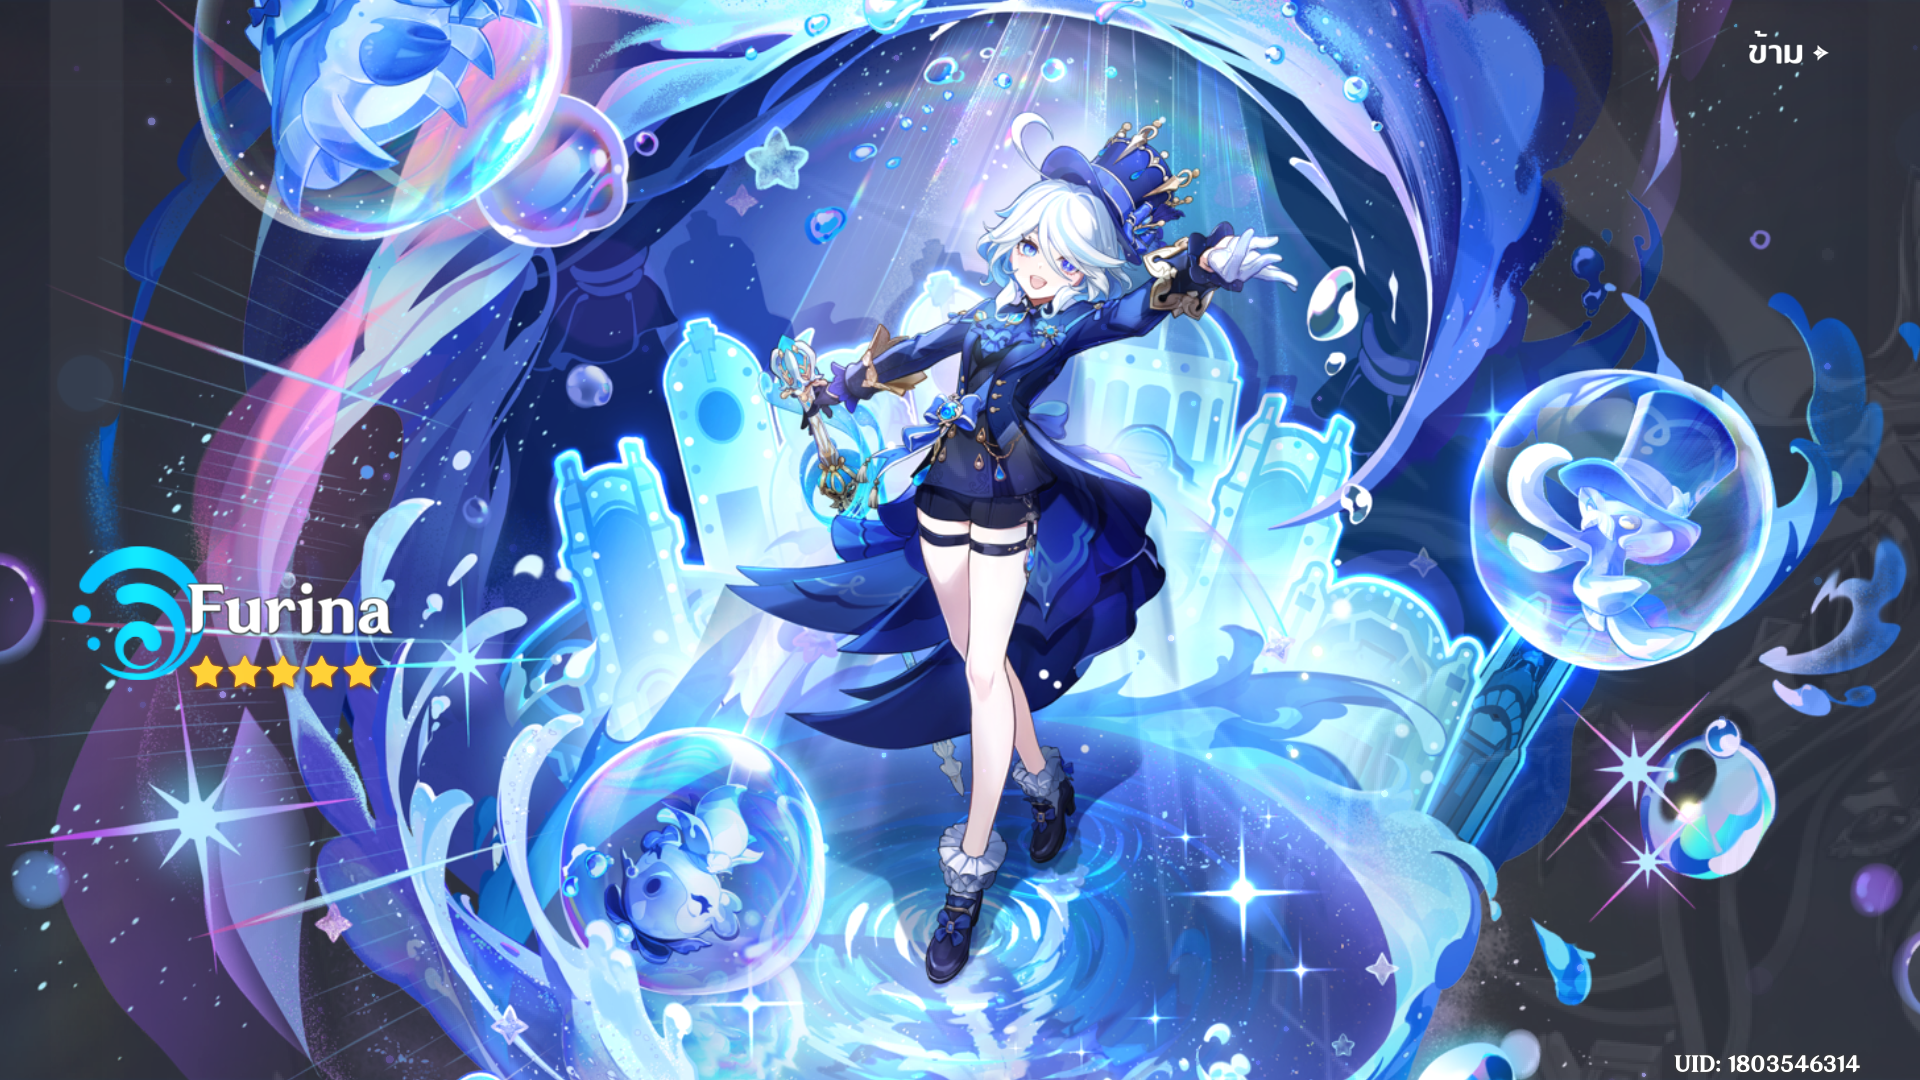
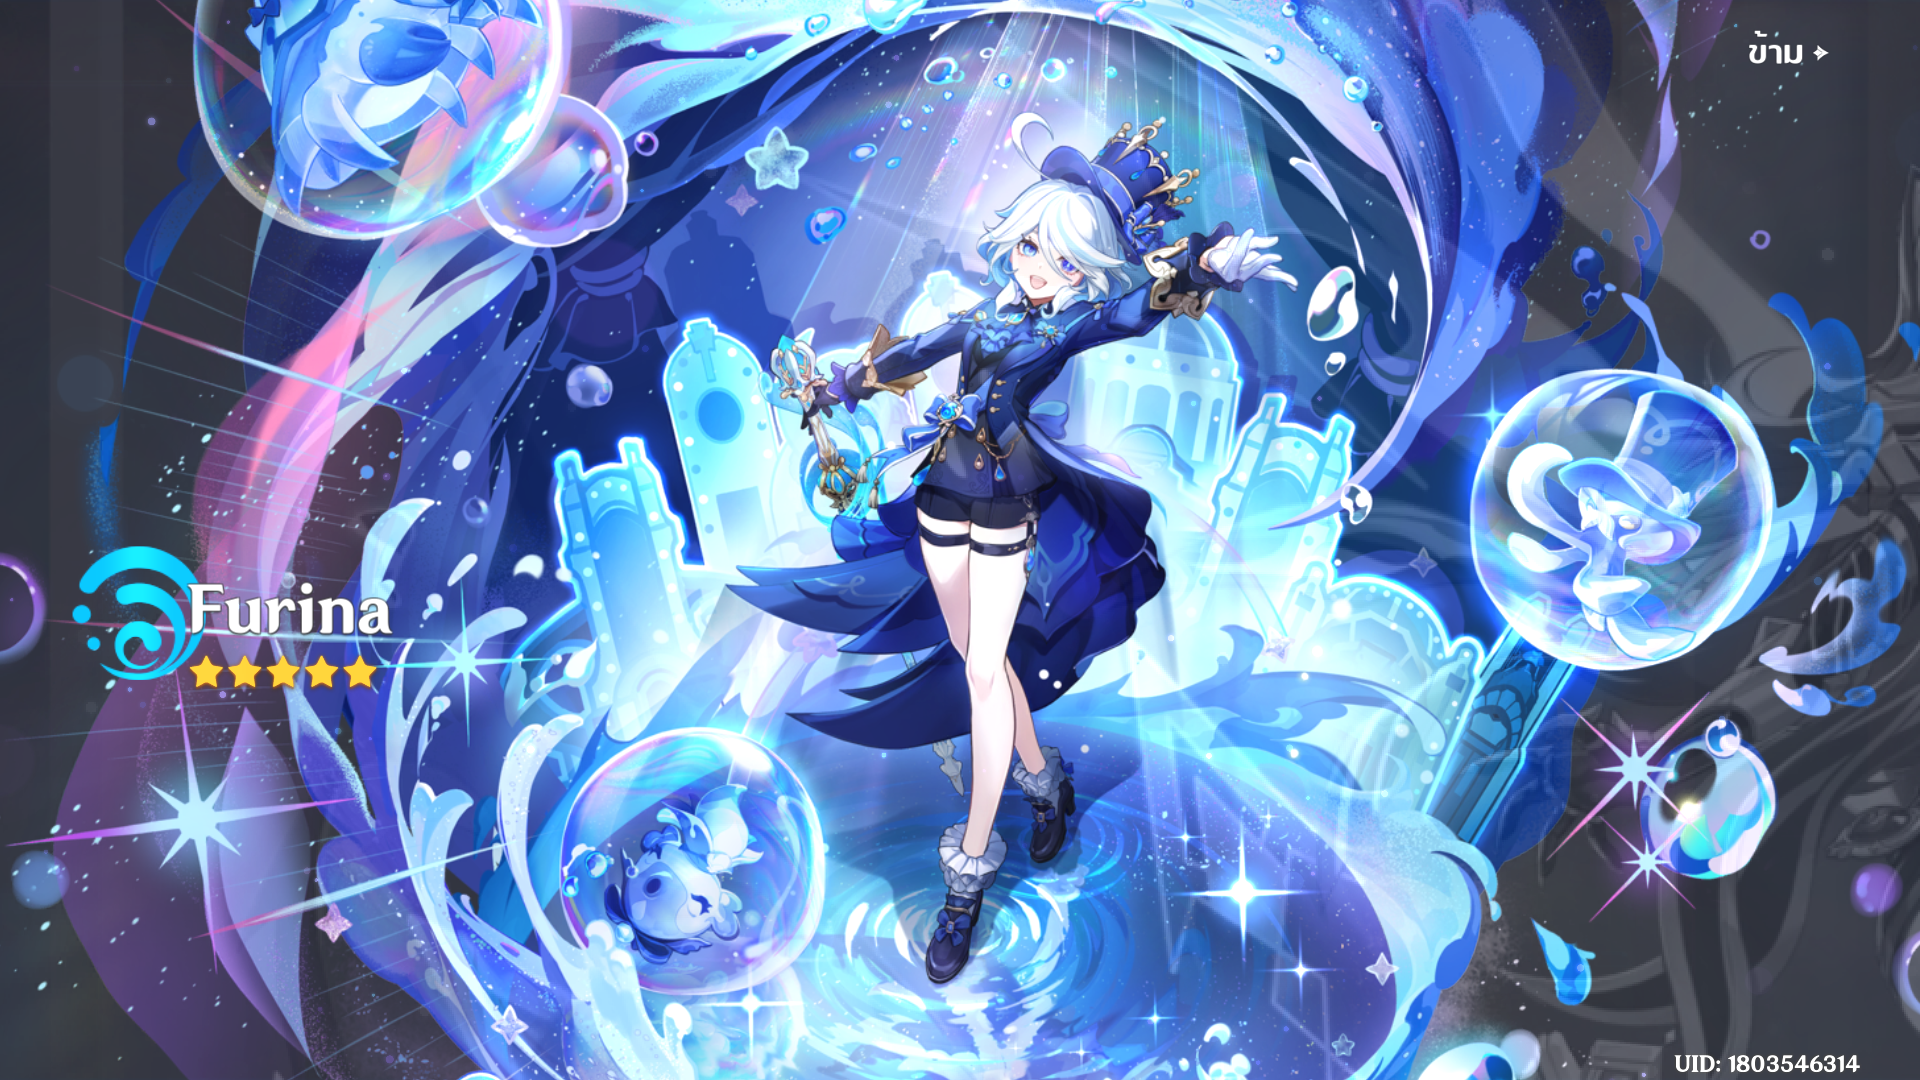
01

diff --git a/index.py b/index.py
@@ -44,7 +44,7 @@ if watermark_array.shape[0] > original_array.shape[0] // 2 or watermark_array.sh
     watermark_array = watermark_array[:original_array.shape[0] // 2, :original_array.shape[1] // 2]
 
 # ฝังลายน้ำในช่องสี
-watermarked_array = embed_watermark_dwt_rgb(original_array, watermark_array, alpha=0.25)
+watermarked_array = embed_watermark_dwt_rgb(original_array, watermark_array, alpha=0.5)
 
 # สร้างและบันทึกภาพที่มีลายน้ำ
 watermarked_image = array_to_image(watermarked_array)
